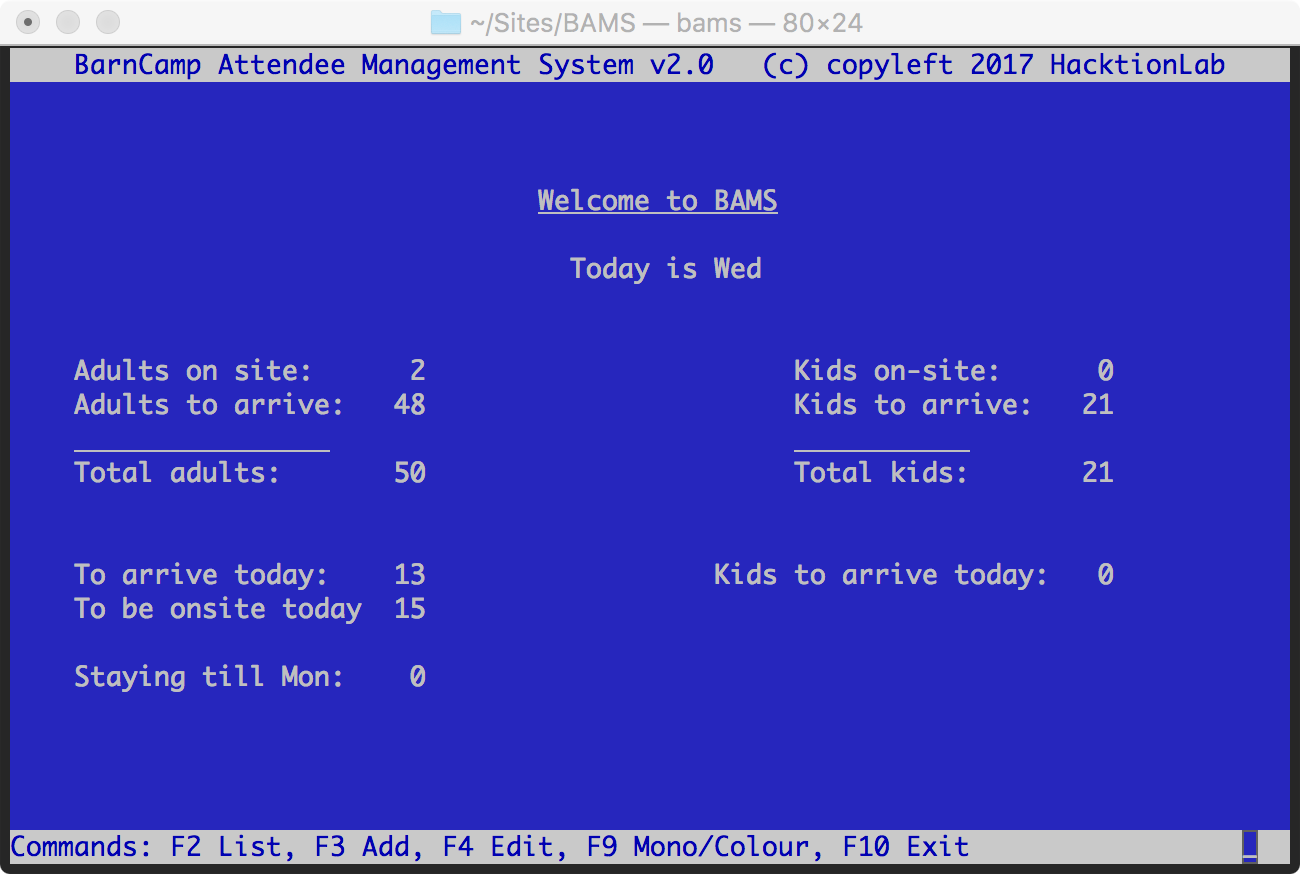
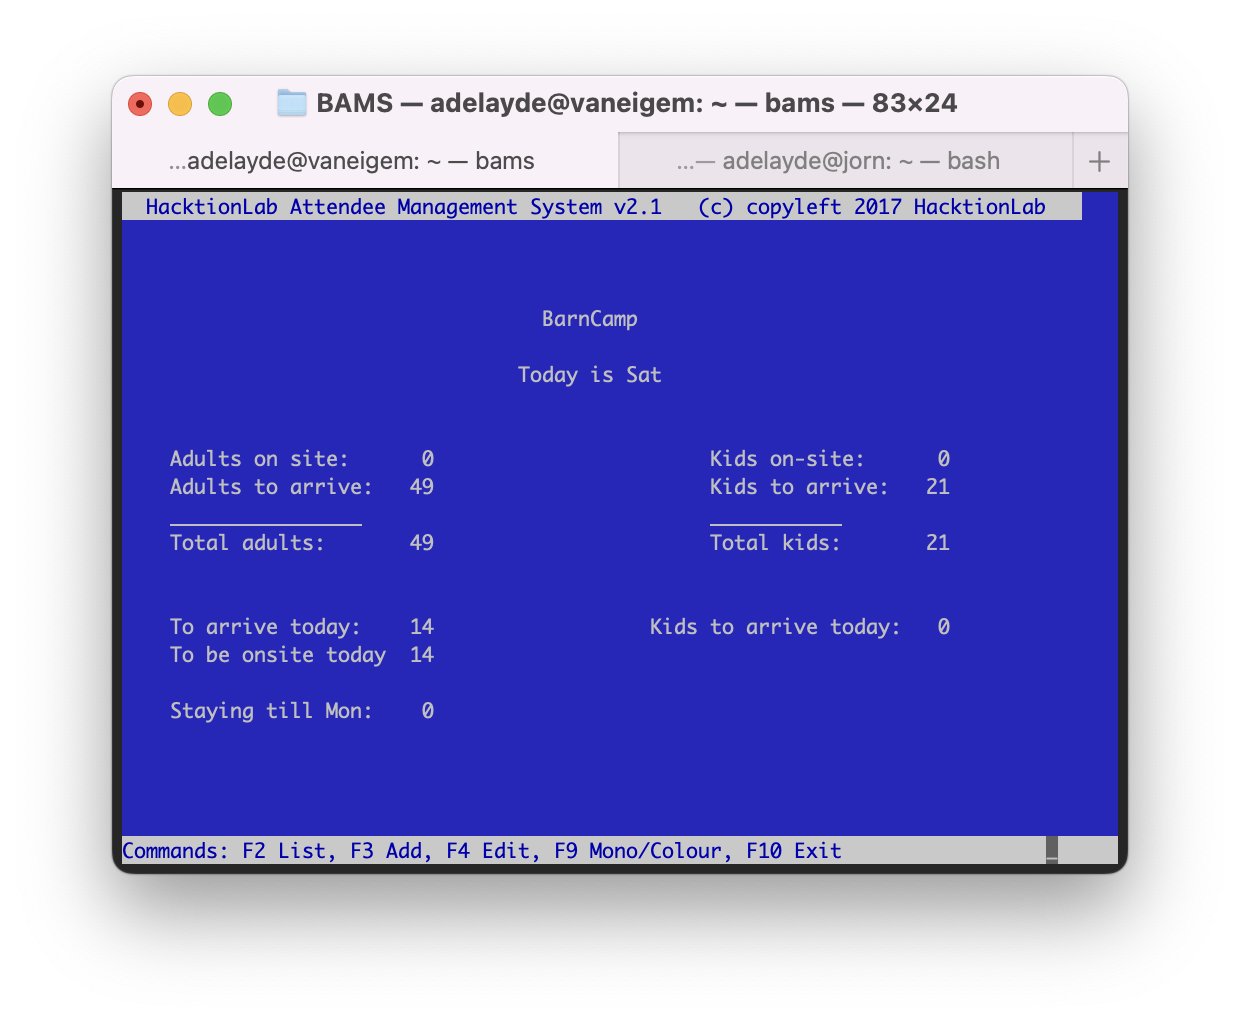
Update with latest version screenshot

diff --git a/README.md b/README.md
@@ -1,7 +1,7 @@
 # BAMS
-The BarnCamp Attendee Management System 2.0
+This is the source code of The BarnCamp/HacktionLab Attendee Management System 2.1
 
-A legacy system for managing the Welcome Desk at [BarnCamp](https://barncamp.org.uk) written in GNU COBOL.
+A legacy system written in GNU COBOL for managing the Welcome Desk at [BarnCamp](https://barncamp.org.uk), [HacktionLab](https://hacktionlab.org) and other events.
 
 ![Screen shot of BAMS Home Screen](homepage.png "BAMS Home Screen")
 
